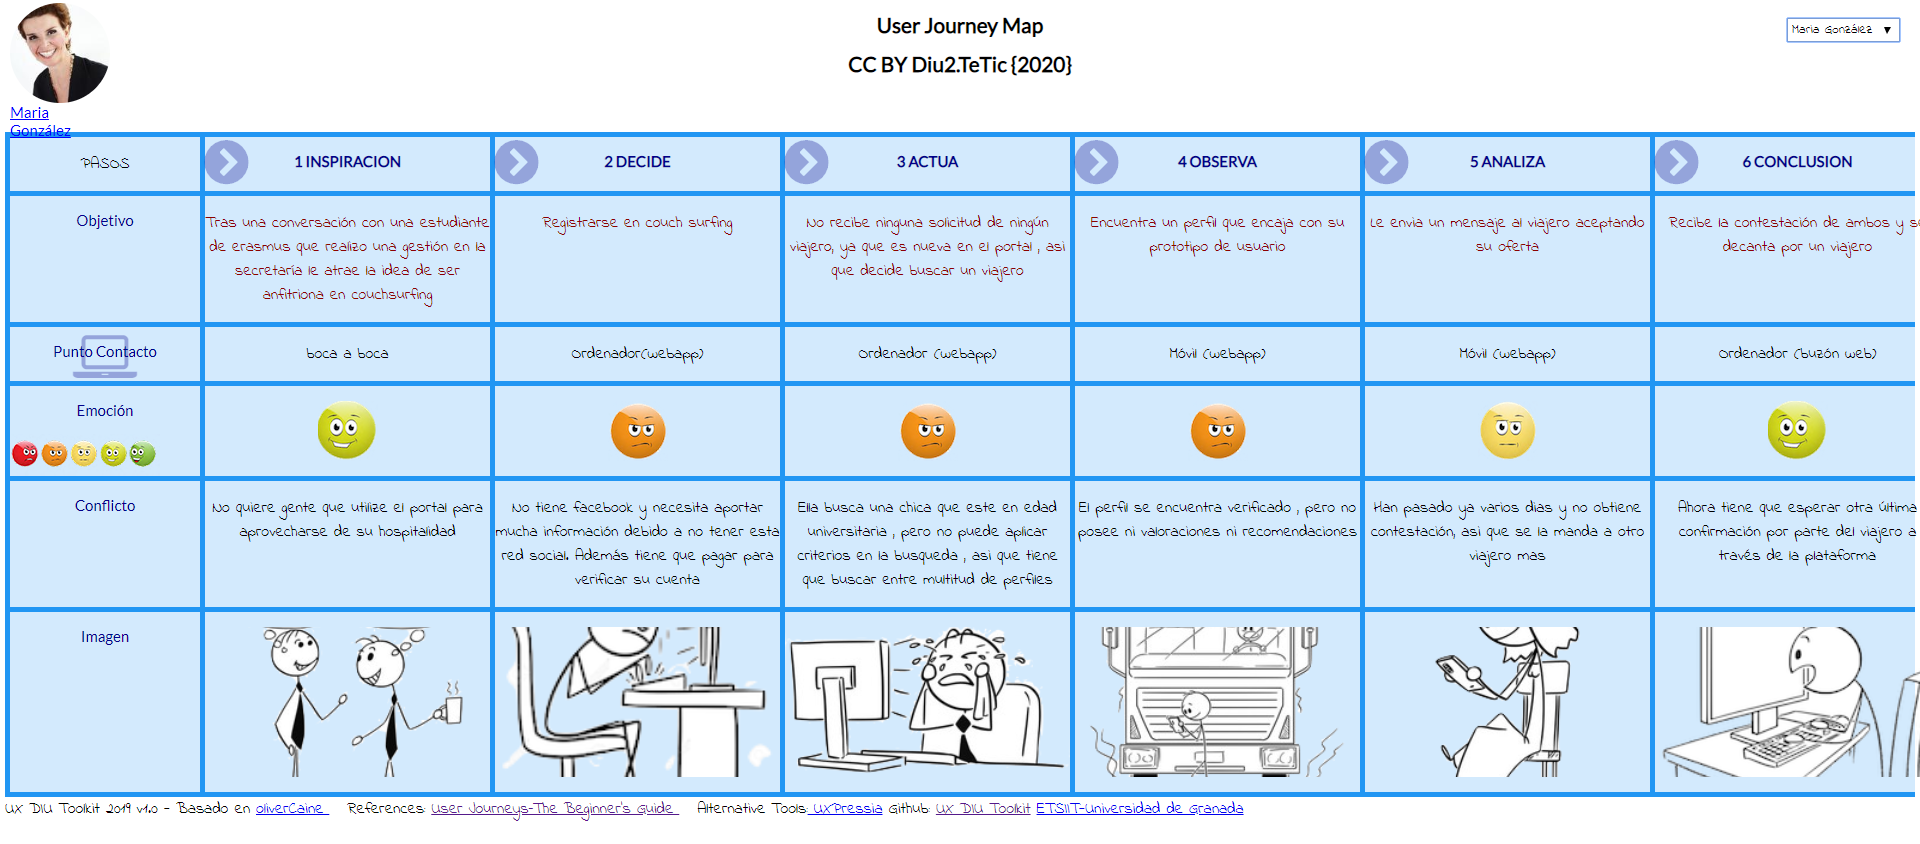
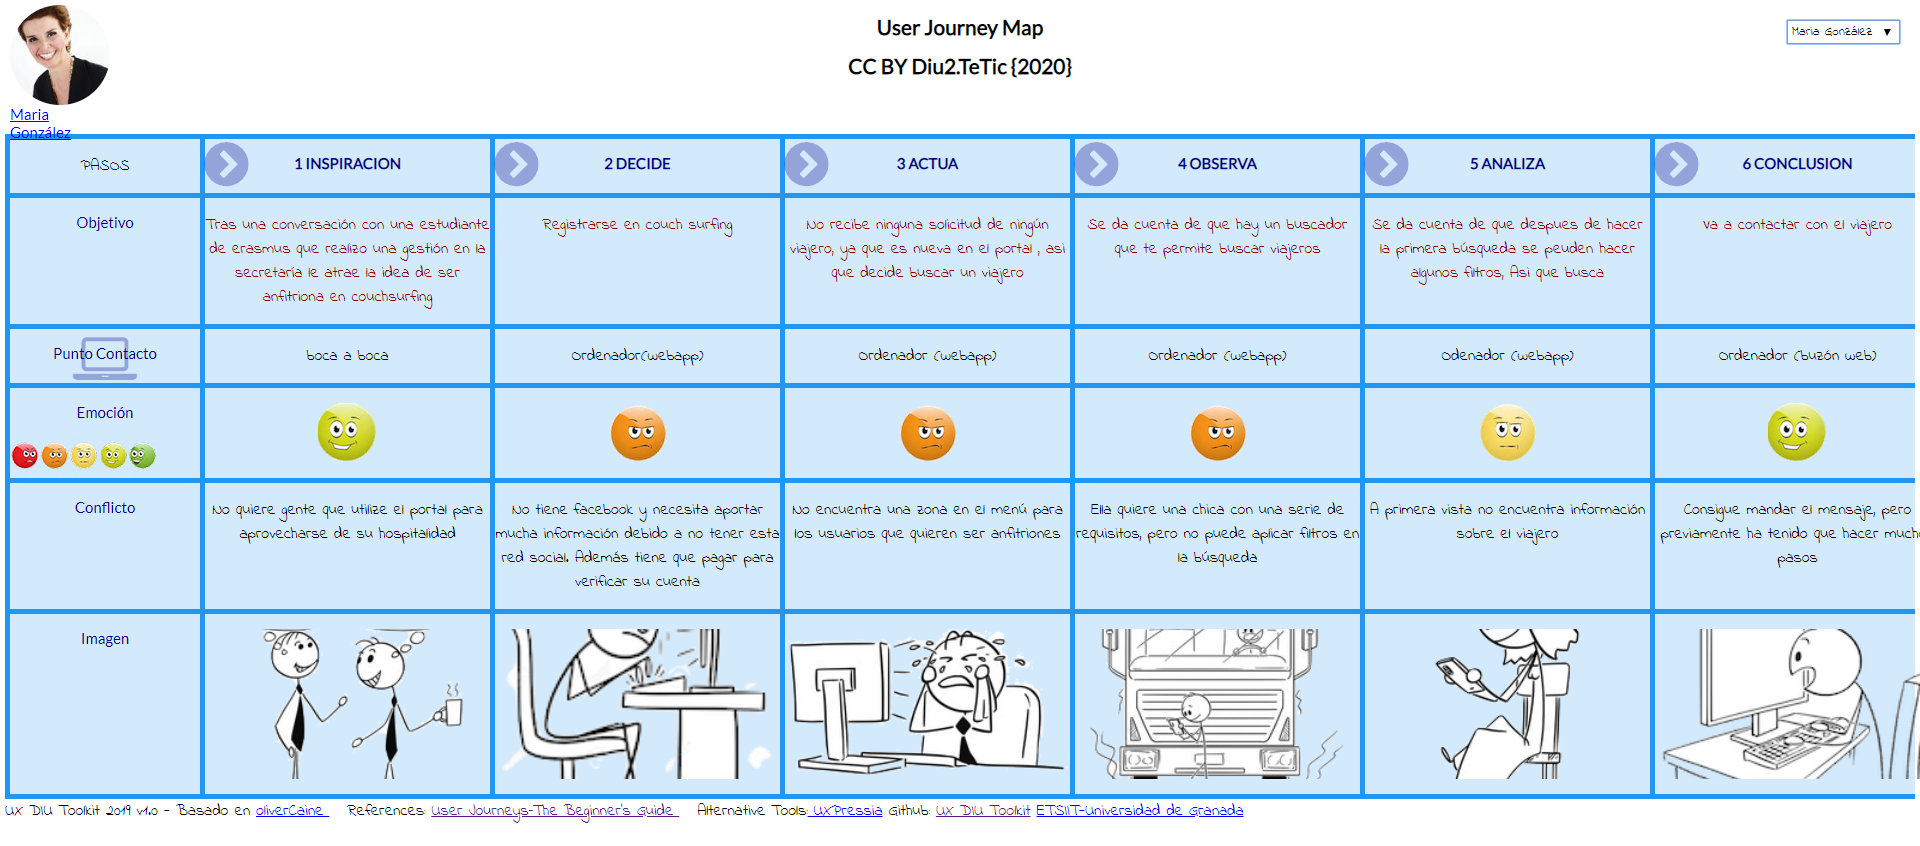
Correcion de la practica

diff --git a/P1/ToolKit/Persona.js b/P1/ToolKit/Persona.js
@@ -35,16 +35,16 @@ angular.module("angular", [])
 				Occupation: "Estudiante de historia",
 				Family: "Soltero",
 				Location: "Dallas, EEUU",
-				Character: "Le apasiona viajar y aprender otras costumbres",
+				Character: "Curioso y aventurero",
 				PersonalityTraits: [
 					{ Name: "Introvertido/reservado Vs  Extrov/activo ", Value: 4 },
 					{ Name: "Realista/práctico  Vs    Intuición/imaginativo", Value: 3 },
 					{ Name: "Racional/analitico  Vs   Emocional/impulsivo", Value: 5 },
 					{ Name: "Flemático/apático  Vs   Colérico/visceral", Value: 4 }
 				], 
-				Goals: ["Disfrutar del tiempo libre, viajar", "Conocer a gente nueva ", "Aprender las constumbres autoctonas", "Aprender idiomas","Viajar de manera low cost"],
+				Goals: ["Disfrutar del tiempo libre, viajar", "Conocer a gente nueva ", "Ver al Real Madrid", "Aprender idiomas","Viajar de manera low cost"],
 				Frustrations: ["Le encanta viajar, pero no soporta conocer nuevos lugares solo", "Necesita una forma de alojamiento barata", "Solo habla inglés"],
-				Bio: "Es un estudiante de historia de Dallas(EEUU). Ha terminado el grado y va a comenzar un año sabático por Europa. Tiene pocos amigos y no hay nada que le impida viajar ",
+				Bio: "Es un estudiante de historia de la universidad de Dallas(EEUU). Nació en Texas donde vivió hasta los 18 años. Ha terminado el grado este año. Nathan es huérfano, perdió a sus padres en un accidente de tráfico cuando tenía 10 años y a partir de ahí comenzó a vivir con su abuela, la cual falleció hace 4 meses. La herencia que le dejaron sus padres le permitió estudiar en la universidad. Le encanta la música, es un excelente guitarrista. Además es un apasionado del fútbol en especial es fan del Real Madrid. ",
 				Tech: [
 					{ Name: "TIC/Internet", Value: 4 },
 					{ Name: "Movil", Value: 4 },
@@ -52,7 +52,7 @@ angular.module("angular", [])
 					{ Name: "Software", Value: 3 }
 					
 				], 
-                Contextos: " Ha termiando el grado y ha decidido comenzar un año sabático para viajar,aunque no dispone de mucho dinero. Necesitaba un cambio de aires en su vida y conocer otras personas",  
+                Contextos: " Ha termiando el grado y ha decidido comenzar un año sabático para viajar, ya que la muerte de su abuela supuso un gran golpe para él y necesita un respiro en su vida ,aunque no dispone de mucho dinero porque lo gastó en sus estudios.",  
 				PreferredChannels: [
 					{ Name: "Publicidad Tradicional", Value: 2 },
 					{ Name: "Online & Social Media", Value: 5 },
@@ -76,16 +76,16 @@ angular.module("angular", [])
 				Occupation: "Funcionaria en la secretaria de la universidad",
 				Family: "Casada y sin hijos.",
 				Location: "Sevilla",
-				Character: "Estrovertida, inquita y le gusta experimentar.",
+				Character: "Estrovertida, inquieta y le gusta experimentar.",
 				PersonalityTraits: [
 					{ Name: "Introvertido/reservado Vs  Extrov/activo ", Value: 5 },
 					{ Name: "Realista/práctico  Vs    Intuición/imaginativo", Value: 3 },
 					{ Name: "Racional/analitico  Vs   Emocional/impulsivo", Value: 4 },
 					{ Name: "Flemático/apático  Vs   Colérico/visceral", Value: 3 }
 				], 
-				Goals: ["Salir de la rutina.", "Vivir nuevas experiencias.", "Cambiar su manera de ver la vida.", "Compartir experiencias con su pareja.", "Conocer gente nueva"],
-				Frustrations: ["Vivir en una rutina constante.", "Quiere a su pareja, pero se encuentran solos.", "No puede viajar, pero le encantaría conocer la forma de vida en otros paises.", "Solo se relaciona con su marido.","No le gusta su trabajo, siempre quiso ser profesora"],
-				Bio: "Maria es una funcionaria para la secretraria pública de la universidad de Sevilla que lleva casada 15 años con Juan , su marido. No tiene hijos.Es original de Madrid y apenas a viajado, ya que su situación económica y su trabajo no lo permiten. Maria apenas tiene amigos porque se mudó a Sevilla hace un año y la única persona con la que se relaciona en Sevilla es su marido. Vive en una casa en el centro de Sevilla",
+				Goals: ["Salir de la rutina.", "Vivir nuevas experiencias.", "Cambiar su manera de ver la vida.", "Aprender idiomas.", ],
+				Frustrations: ["Vivir en una rutina constante.", "Quiere a su pareja, pero se encuentran solos.", "No puede viajar, pero le encantaría conocer la forma de vida en otros paises.", "Solo se relaciona con su marido.","No le gusta su trabajo"],
+				Bio: "Maria es una funcionaria para la secretraria pública de la universidad de Sevilla. Estudió la carrera de relaciones laborales y se preparó las oposiciones para fincionaria.Lleva casada 15 años con Juan , su marido. No tiene hijos.Es original de Madrid y se mudó a Sevilla hace dos años.Su familia vive en Madrid y su marido viaja habitualmente por negocios.Le apasiona leer y cocinar. Asiste a clases de cocina y ha ganado en varias ocasiones el concurso de tortilla española. Tiene un grupo de amigos con los que queda una vez al mes en un bar de la zona ",
 				Tech: [
 					{ Name: "TIC/Internet", Value:  3},
 					{ Name: "Mobile", Value: 3 },
@@ -93,7 +93,7 @@ angular.module("angular", [])
 					{ Name: "Software", Value: 1 }
 					
 				], 
-                Contextos:   "Maria se encuentra en una situación de monotonía y necesita vivir nuevas experiencias que le den chispa tanto a su vida como a la de su marido. La única vida social que tiene es con su marido y en ocasiones se encuentra sola. Su profesión no le apasiona y le gustaría algún dia cumplir su sueño de ser profesora" ,
+                Contextos:   "Maria se encuentra en una situación de monotonía y necesita vivir nuevas experiencias que le den chispa tanto a su vida como a la de su marido. Actualmente se está preparando para el B2 en Inglés porque se lo exigen en el trabajo" ,
 				PreferredChannels: [
 					{ Name: "Publicidad Tradicional (Ads)", Value: 5 },
 					{ Name: "Online & Social Media", Value: 2 },

diff --git a/P1/ToolKit/Journey.js b/P1/ToolKit/Journey.js
@@ -44,7 +44,7 @@ angular.module("angular", [])
                 goal2: "Busca en couchsurfing un anfitrión en Sevilla",
                 touch2: "ordenador",
                 feel2: "2",
-                con2: "Exceso de anfitriones, de los cuales no aparece ninguna opinión ni valoración de ningún tipo ",
+                con2: "Los anfitriones no están ordenados por ningún criterio y tiene que ir uno por uno ",
                 ima2: "cartoon-PCangry.png",
                 
                 /*** PASO #3: ACTUA ***/ 
@@ -52,32 +52,32 @@ angular.module("angular", [])
                 goal3: "Busca un grupo que recomiende anfitriones que además le ayuden a conocer Sevilla",
                 touch3: "ordenador",
                 feel3: "3",
-                con3: "Gran cantidad de grupos, con poca actividad que no solucionan sus problemas",
+                con3: "No lo encuentra asi que decide crealo, tiene que completar el perfil",
                 ima3: "cartoon-why.png",
                 
                 /*** PASO #4: OBSERVA ***/ 
                 
-                goal4: "Observa que hay anfitriones verificados por el portal",
+                goal4: "Se da cuenta de que puede invertarse los datos y no pasa nada",
                 touch4: "ordenador",
-                feel4: "4",
-                con4: "Al estar verificados le aporta seguridad",
+                feel4: "2",
+                con4: "No se fia de la veracidad de los perfiles",
                 ima4: "cartoon-PCSurprised.png",
                 
                  /*** PASO #5: ANALIZA ***/ 
                 
-                goal5: "Se encuentra 3 opciones que encajan en sus preferencias y se encuentran cerca de algún evento",
+                goal5: "No dispone de un area que le guie paso a paso para completar su perfil",
                 touch5: "móvil (webapp)",
                 feel5: "1",
-                con5: "No puede enviarle un mensaje porque necesita completar mucha unformación de su perfil, algunas como la verificación tardan en obtenerse. Su experiencia tiene que esperar",
+                con5: "No puede crear el grupo",
                 ima5: "cartoon-KO.png",
                 
                 
                 /*** PASO #6: CONCLUSION ***/ 
                 
-                goal6: "Consigue completar el perfil. Ahora toca esperar a que me constesten!",
+                goal6: "Opta por enviar un mensaje a un anfitrión aunque no tiene mucha confianza",
                 touch6: "ordenador",
                 feel6: "2",
-                con6: "No sabe con certeza si recibirá una respuesta y podra viajar lo necesita saber cuanto antes para reservar el vuelo",
+                con6: "Está confuso y perdido",
                 ima6: "cartoon-resting.png",
                 
 			},
@@ -98,7 +98,7 @@ angular.module("angular", [])
                 con1: "No quiere gente que utilize el portal para aprovecharse de su hospitalidad ",
                 ima1: "cartoon-speaking.png",
                 
-                /*** PASO #2: DECICION ***/ 
+                /*** PASO #2: REGISTRO ***/ 
                 goal2: "Registrarse en couch surfing",
                 touch2: "Ordenador(webapp)",
                 feel2: "2",
@@ -110,32 +110,32 @@ angular.module("angular", [])
                 goal3: "No recibe ninguna solicitud de ningún viajero, ya que es nueva en el portal , asi que decide buscar un viajero",
                 touch3: "Ordenador (webapp)",
                 feel3: "2",
-                con3: "Ella busca una chica que este en edad universitaria , pero no puede aplicar criterios en la busqueda , asi que tiene que buscar entre multitud de perfiles",
+                con3: "No encuentra una zona en el menú para los usuarios que quieren ser anfitriones ",
                 ima3: "cartoon-PCcrying.png",
                 
                 /*** PASO #4: OBSERVA ***/ 
                 
-                goal4: "Encuentra un perfil que encaja con su prototipo de usuario",
-                touch4: "Móvil (webapp)",
+                goal4: "Se da cuenta de que hay un buscador que te permite buscar viajeros",
+                touch4: "Ordenador (webapp)",
                 feel4: "2",
-                con4: "El perfil se encuentra verificado , pero no posee ni valoraciones ni recomendaciones",
+                con4: "Ella quiere una chica con una serie de requisitos, pero no puede aplicar filtros en la búsqueda",
                 ima4: "cartoon-phone-street.png",
                 
                  /*** PASO #5: ANALIZA ***/ 
                 
-                goal5: "Le envia un mensaje al viajero aceptando su oferta ",
-                touch5: "Móvil (webapp)",
+                goal5: "Se da cuenta de que despues de hacer la primera búsqueda se peuden hacer algunos filtros, Asi que busca ",
+                touch5: "Odenador (webapp)",
                 feel5: "3",
-                con5: "Han pasado ya varios dias y no obtiene contestación, asi que se la manda a otro viajero mas",
+                con5: "A primera vista no encuentra información sobre el viajero",
                 ima5: "cartoon-phone-sitting.png",
 
                 
-                /*** PASO #6: CONCLUSION ***/ 
+                /*** PASO #6: CONTACTA ***/ 
                 
-                goal6: "Recibe la contestación de ambos y se decanta por un viajero",
+                goal6: "Va a contactar con el viajero",
                 touch6: "Ordenador (buzón web)",
                 feel6: "4",
-                con6: "Ahora tiene que esperar otra última confirmación por parte del viajero a través de la plataforma",
+                con6: "Consigue mandar el mensaje, pero previamente ha tenido que hacer muchos pasos",
                 ima6: "cartoon-PCSurprised.png",
                 
                 

diff --git a/P1/README.md b/P1/README.md
@@ -86,7 +86,6 @@
 >>> - Usability Review: [Document](https://github.com/migueg/DIU20/blob/master/P1/Usability-review-template.xls)
 >>> - Valoración final: 63
 >>> - Comentario: Esta valor es dado ya que la interfaz es sencilla y las funcionalidades están a simple vista, pero presenta problemas 
-que pueden ensuciar la experiencia en el diseño. A pesar de presentar un diseño visual bastante claro,sencillo e intuitivo hay un exceso de información no verificada que puede hacer desconfiar al usuario. Además para los usuarios nuevos puede suponer un obstáculo poder 
-empezar a disfrutar de la aplicación dado que hay que realizar muchas tareas previas. Por último cabe destacar la auencia de busquedas
-personalizadas con filtros cosa común en este tipo de interfaces.
+que pueden ensuciar la experiencia en el diseño. A pesar de presentar un diseño visual bastante claro,sencillo e intuitivo hay un exceso de información no verificada que puede hacer desconfiar al usuario. Los formularios permiten introducir errores.No hay diferenciacion entre roles de usuario, si eres anfitrión no dispones de una zona de anfitriones al igual que pasa con los viajeros.La página de incio no esta ordenada, tienes que ir bajando por la página para encontrar lo que le interesa al usuario . Por último cabe destacar la ausencia de busquedas
+personalizadas con filtros cosa común en este tipo de interfaces, aunque se permite un filtrado después de una primera búsqueda pero no es muy útil.
 
